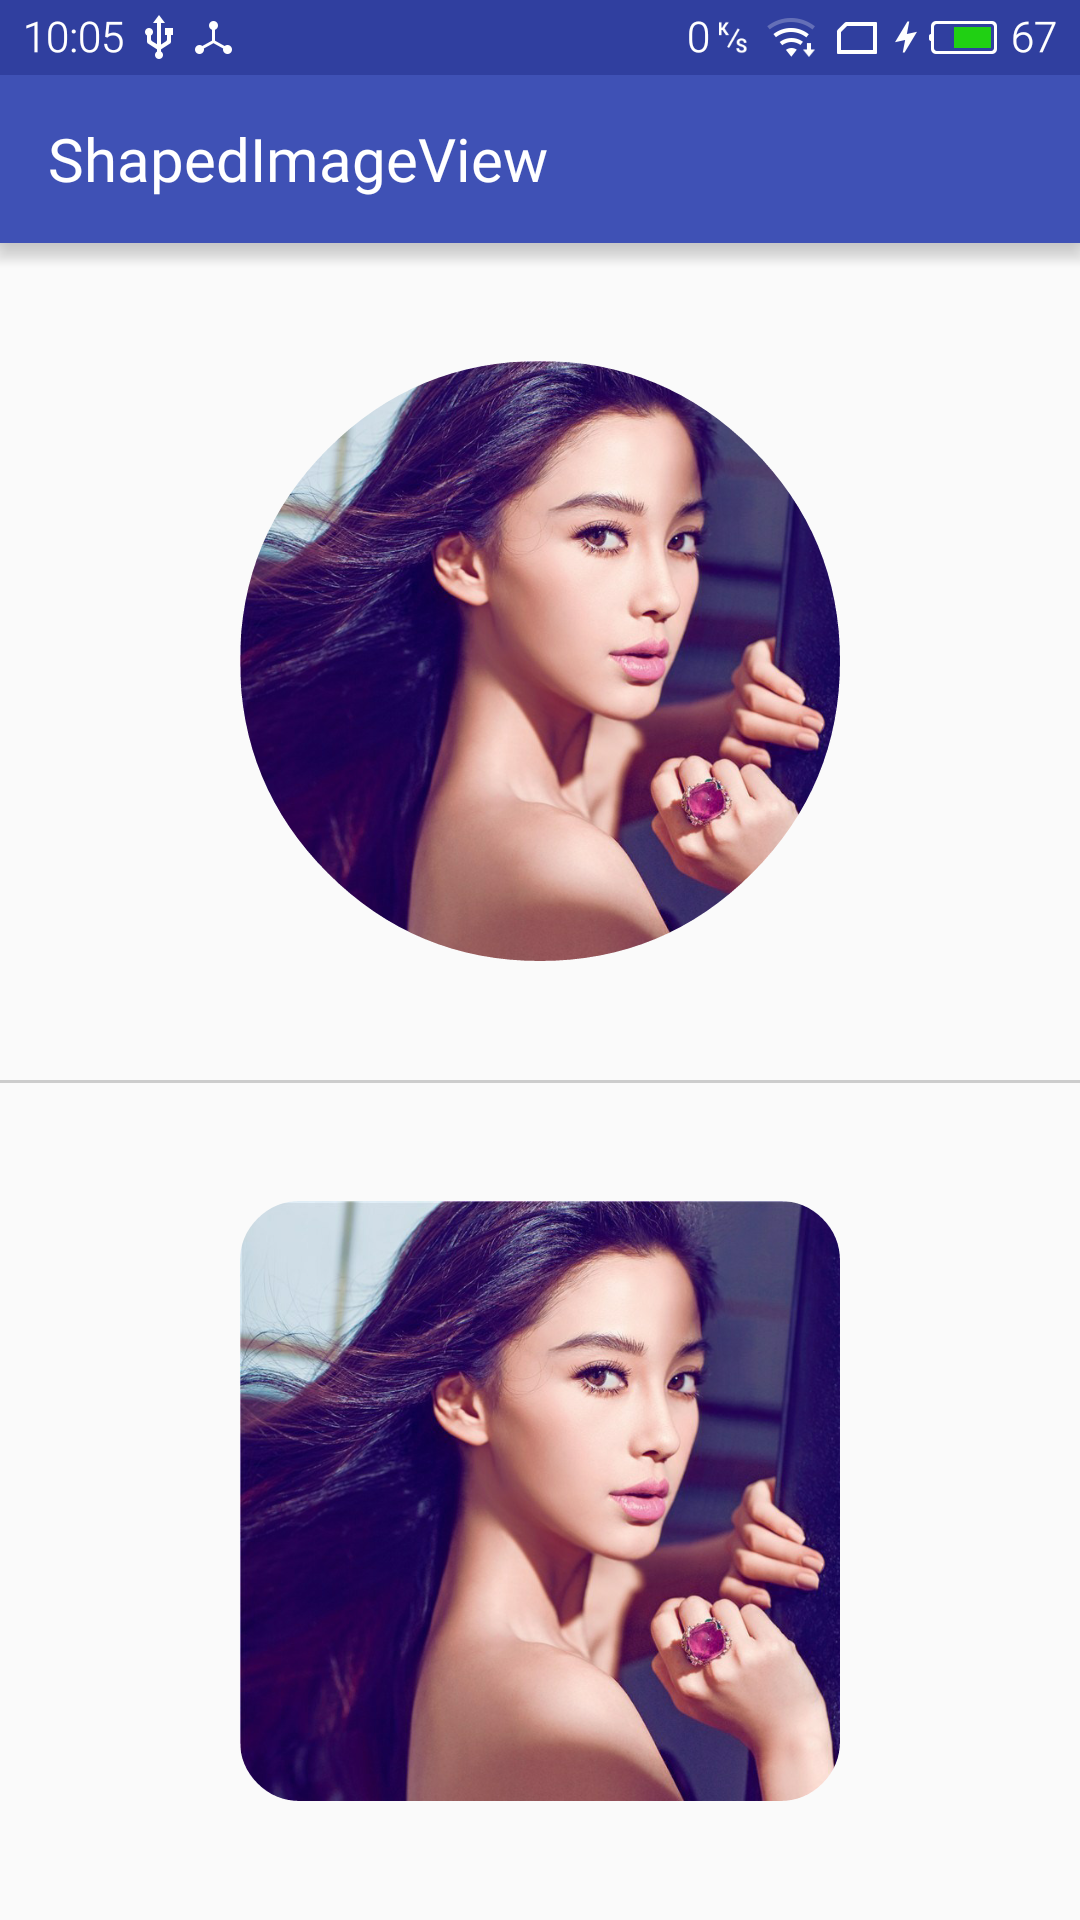
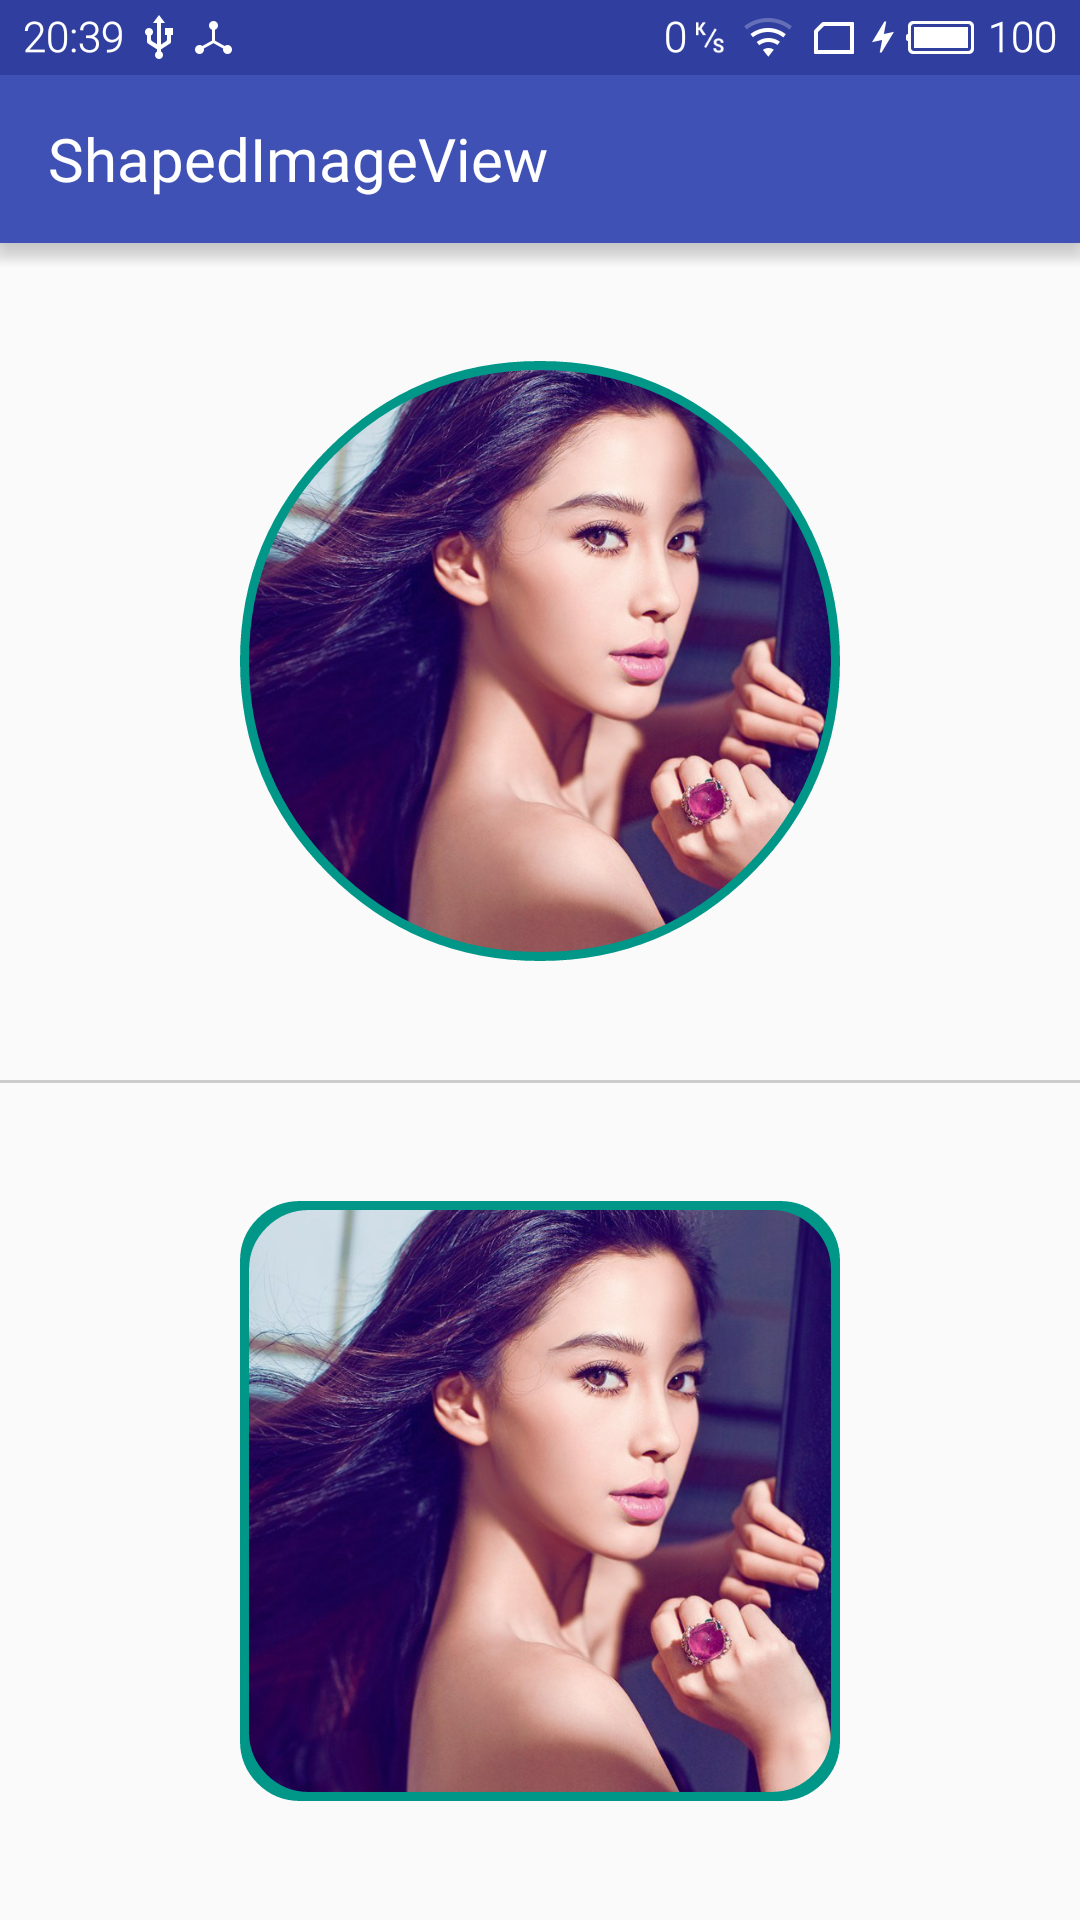
增加设置边框颜色，大小

diff --git a/ShapedImageView/src/main/java/cn/gavinliu/android/lib/shapedimageview/ShapedImageView.java b/ShapedImageView/src/main/java/cn/gavinliu/android/lib/shapedimageview/ShapedImageView.java
@@ -2,11 +2,13 @@ package cn.gavinliu.android.lib.shapedimageview;
 
 import android.content.Context;
 import android.content.res.TypedArray;
+import android.graphics.Bitmap;
 import android.graphics.Canvas;
 import android.graphics.Color;
 import android.graphics.Paint;
 import android.graphics.PorterDuff;
 import android.graphics.PorterDuffXfermode;
+import android.graphics.RectF;
 import android.graphics.drawable.shapes.RoundRectShape;
 import android.graphics.drawable.shapes.Shape;
 import android.os.Build;
@@ -20,10 +22,16 @@ public class ShapedImageView extends ImageView {
     private static final int SHAPE_MODE_ROUND_RECT = 1;
     private static final int SHAPE_MODE_CIRCLE = 2;
 
+    private static final int LAYER_FLAGS = Canvas.MATRIX_SAVE_FLAG | Canvas.CLIP_SAVE_FLAG | Canvas.HAS_ALPHA_LAYER_SAVE_FLAG | Canvas.FULL_COLOR_LAYER_SAVE_FLAG | Canvas.CLIP_TO_LAYER_SAVE_FLAG;
+
     private int mShapeMode = 0;
     private float mRadius = 0;
-    private Shape mShape;
-    private Paint mPaint;
+    private int mStrokeColor = 0x26000000;
+    private float mStrokeWidth = 0;
+
+    private Shape mShape, mStrokeShape;
+    private Paint mPaint, mStrokePaint;
+    private Bitmap mStrokeBitmap;
 
     public ShapedImageView(Context context) {
         super(context);
@@ -48,13 +56,18 @@ public class ShapedImageView extends ImageView {
             TypedArray a = getContext().obtainStyledAttributes(attrs, R.styleable.ShapedImageView);
             mShapeMode = a.getInt(R.styleable.ShapedImageView_shape_mode, 0);
             mRadius = a.getDimension(R.styleable.ShapedImageView_round_radius, 0);
+
+            mStrokeWidth = a.getDimension(R.styleable.ShapedImageView_stroke_width, 0);
+            mStrokeColor = a.getColor(R.styleable.ShapedImageView_stroke_color, mStrokeColor);
             a.recycle();
         }
-        mPaint = new Paint();
-        mPaint.setAntiAlias(true);
+        mPaint = new Paint(Paint.ANTI_ALIAS_FLAG);
         mPaint.setFilterBitmap(true);
         mPaint.setColor(Color.BLACK);
         mPaint.setXfermode(new PorterDuffXfermode(PorterDuff.Mode.DST_IN));
+
+        mStrokePaint = new Paint(Paint.ANTI_ALIAS_FLAG);
+        mStrokePaint.setColor(mStrokeColor);
     }
 
     @Override
@@ -73,16 +86,30 @@ public class ShapedImageView extends ImageView {
                 float[] radius = new float[8];
                 Arrays.fill(radius, mRadius);
                 mShape = new RoundRectShape(radius, null, null);
+                mStrokeShape = new RoundRectShape(radius, null, null);
             }
             mShape.resize(getWidth(), getHeight());
+            if (mStrokeWidth > 0) {
+                mStrokeBitmap = makeStrokeBitmap(getWidth(), getHeight());
+                mStrokeShape.resize(getWidth() - mStrokeWidth * 2, getHeight() - mStrokeWidth * 2);
+            }
         }
     }
 
     @Override
     protected void onDraw(Canvas canvas) {
-        int saveCount = canvas.getSaveCount();
-        canvas.save();
         super.onDraw(canvas);
+
+        if (mStrokeWidth > 0 && mStrokeShape != null && mStrokeBitmap != null) {
+            int i = canvas.saveLayer(0, 0, getWidth(), getHeight(), null, LAYER_FLAGS);
+            canvas.drawBitmap(mStrokeBitmap, 0, 0, mStrokePaint);
+            canvas.translate(mStrokeWidth, mStrokeWidth);
+            mStrokePaint.setXfermode(new PorterDuffXfermode(PorterDuff.Mode.DST_OUT));
+            mStrokeShape.draw(canvas, mStrokePaint);
+            mStrokePaint.setXfermode(null);
+            canvas.restoreToCount(i);
+        }
+
         switch (mShapeMode) {
             case SHAPE_MODE_ROUND_RECT:
             case SHAPE_MODE_CIRCLE:
@@ -91,6 +118,15 @@ public class ShapedImageView extends ImageView {
                 }
                 break;
         }
-        canvas.restoreToCount(saveCount);
     }
+
+    private Bitmap makeStrokeBitmap(int w, int h) {
+        Bitmap bm = Bitmap.createBitmap(w, h, Bitmap.Config.ARGB_8888);
+        Canvas c = new Canvas(bm);
+        Paint p = new Paint(Paint.ANTI_ALIAS_FLAG);
+        p.setColor(mStrokeColor);
+        c.drawRect(new RectF(0, 0, w, h), p);
+        return bm;
+    }
+
 }
